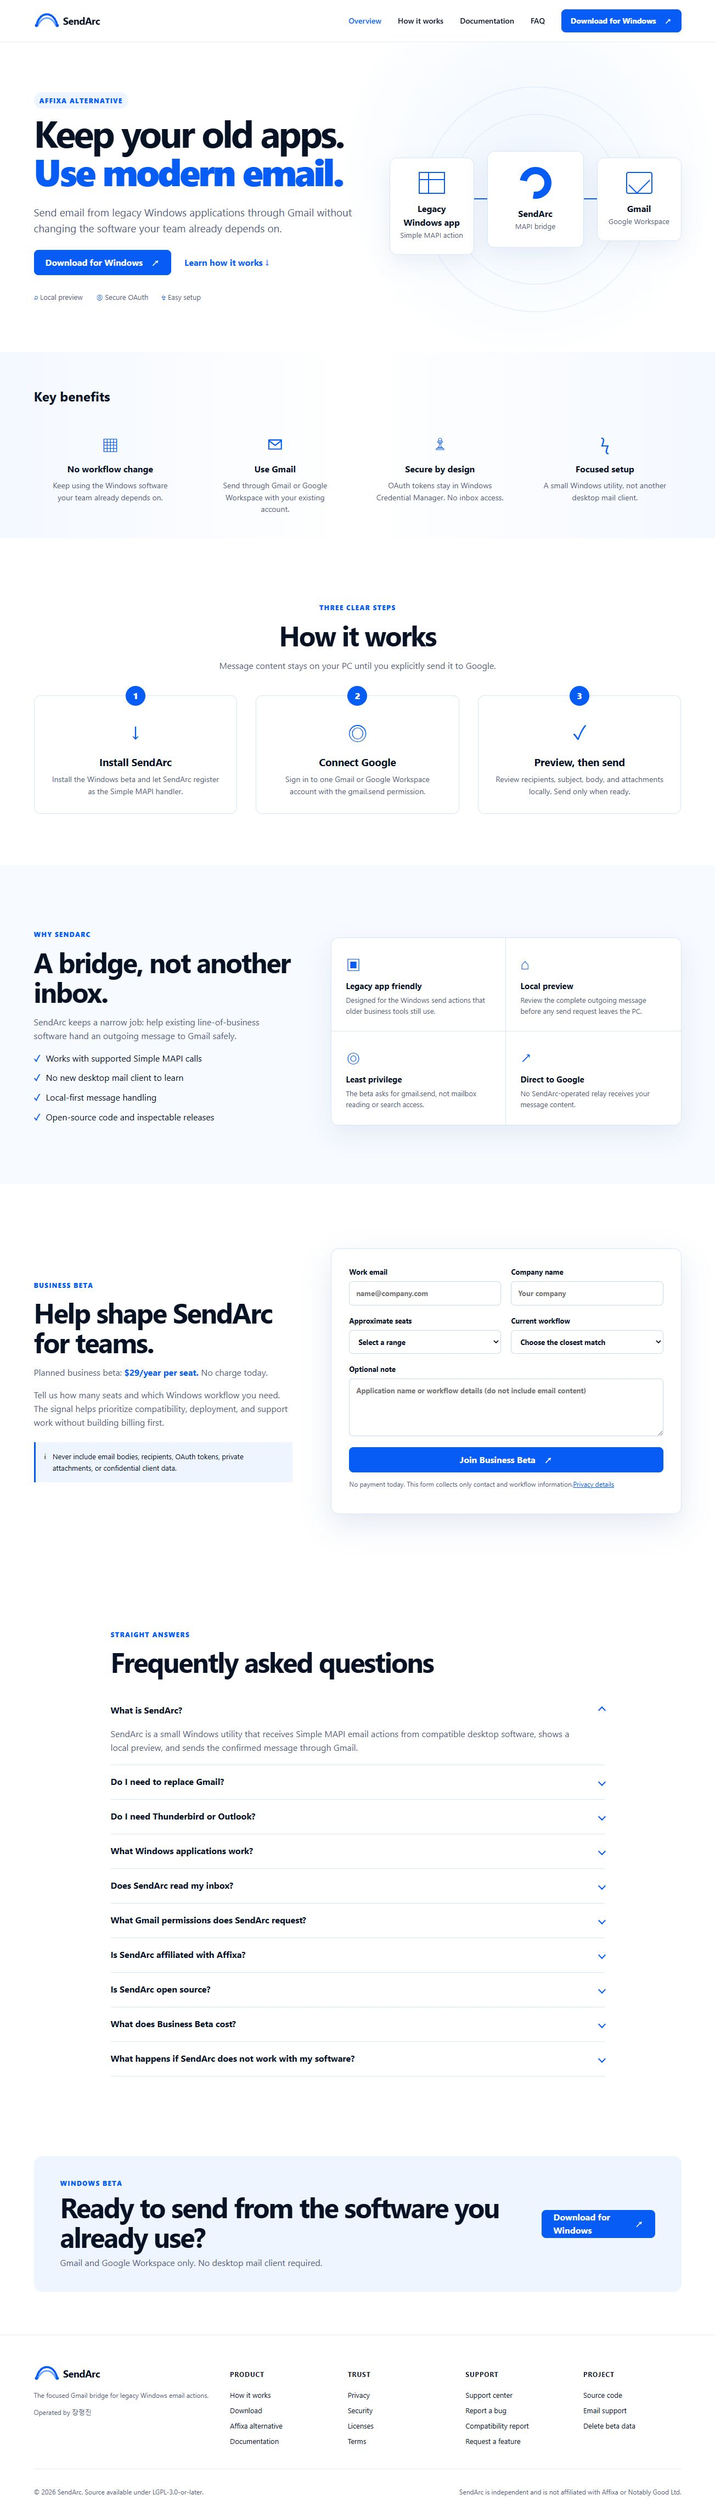
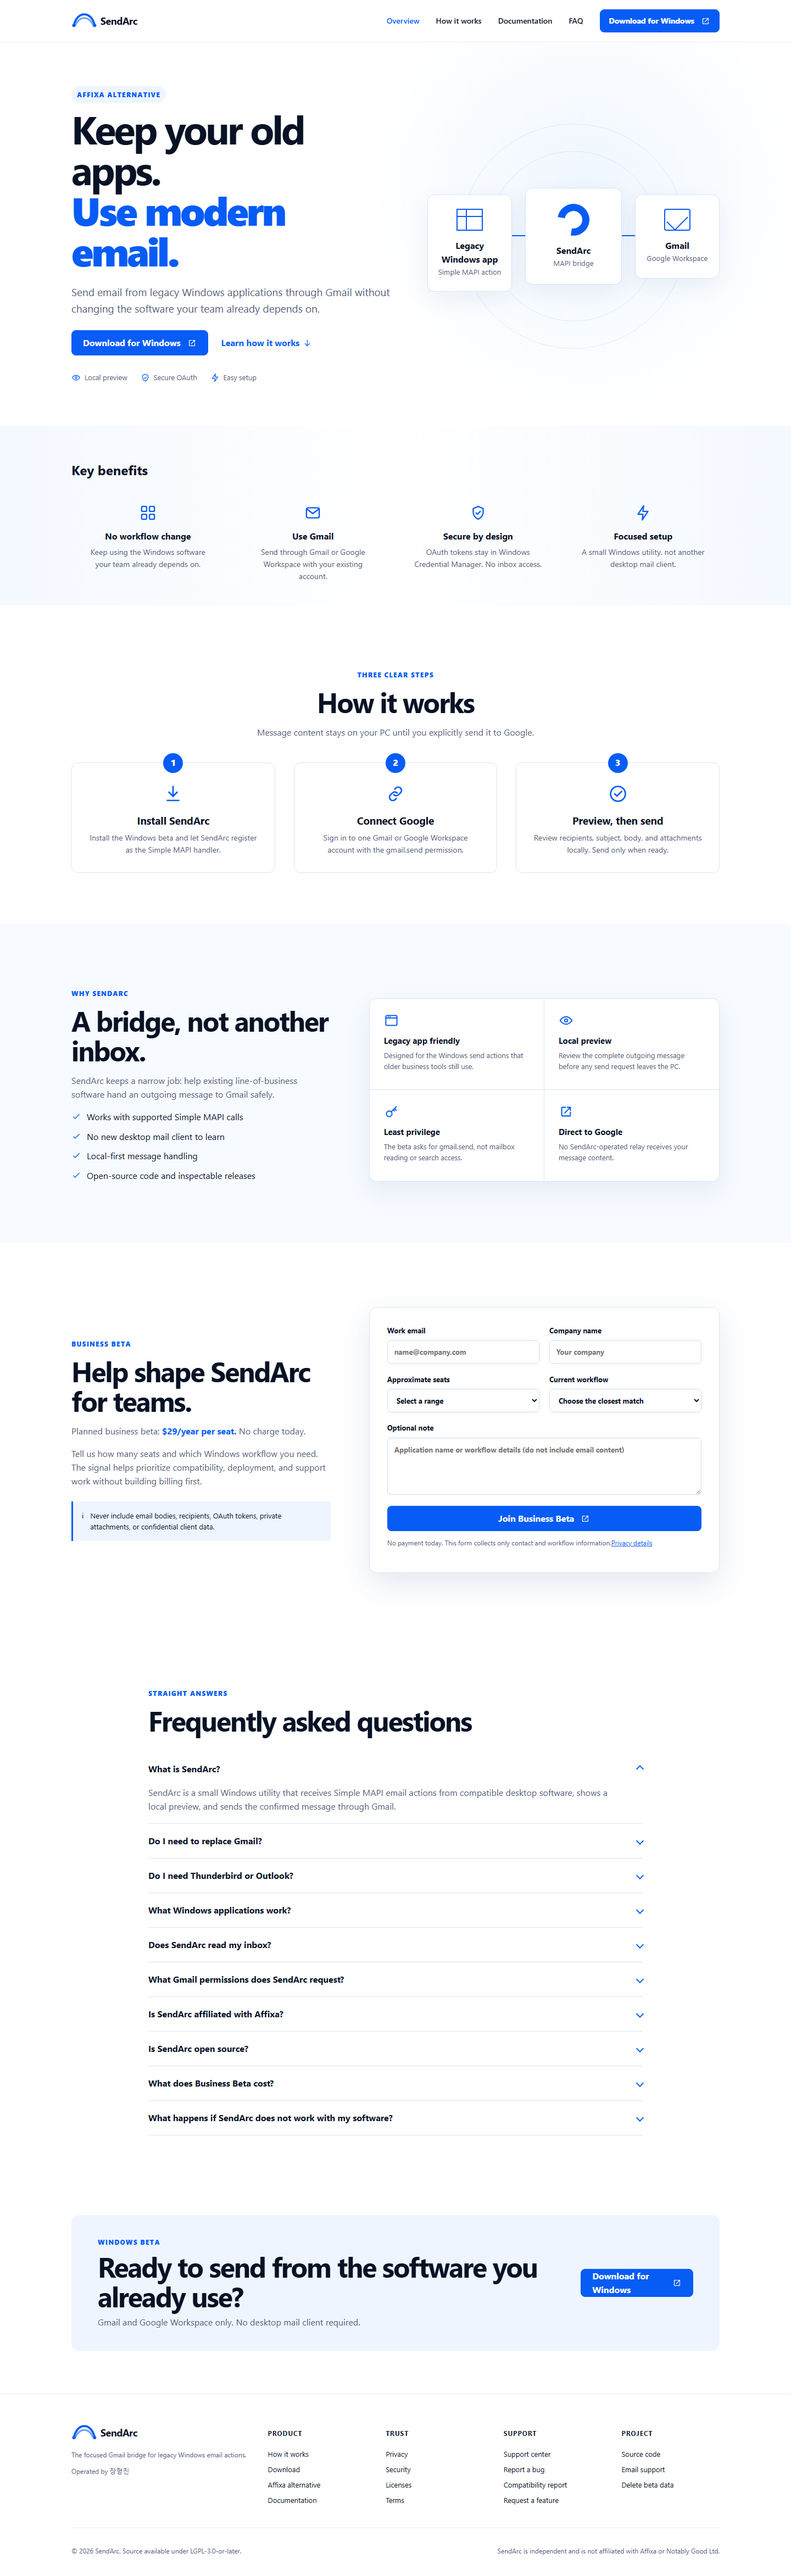
docs: refresh accessible landing visual evidence

diff --git a/docs/WEBSITE_VISUAL_QA.md b/docs/WEBSITE_VISUAL_QA.md
@@ -5,10 +5,10 @@ Date: 2026-08-28
 ## Evidence
 
 - Design reference: [`design/SendArc-final-reference.png`](design/SendArc-final-reference.png) — 1024 × 1536.
-- Local production-build capture: [`design/SendArc-landing-qa-2026-08-28.png`](design/SendArc-landing-qa-2026-08-28.png) — full page at a 1303 × 854 browser viewport, 1303 × 4583 output.
+- Local production-build capture: [`design/SendArc-landing-qa-2026-08-28.png`](design/SendArc-landing-qa-2026-08-28.png) — full page at a 1440 × 900 browser viewport, 1440 × 4689 output.
 - Source under test: `website/dist`, generated by `npm run build` and served with `astro preview`.
 
-The controlled Chrome check found a 1303 px document width and a 1303 px viewport width, so the page had no horizontal overflow. Both SendArc logo images were complete and had non-zero intrinsic dimensions.
+The controlled Chrome check found matching document and viewport widths, so the page had no horizontal overflow. All primary images were complete and had non-zero intrinsic dimensions, and the refreshed capture includes the consistent SVG icon system introduced during the UI/UX audit.
 
 ## Reference comparison
 
